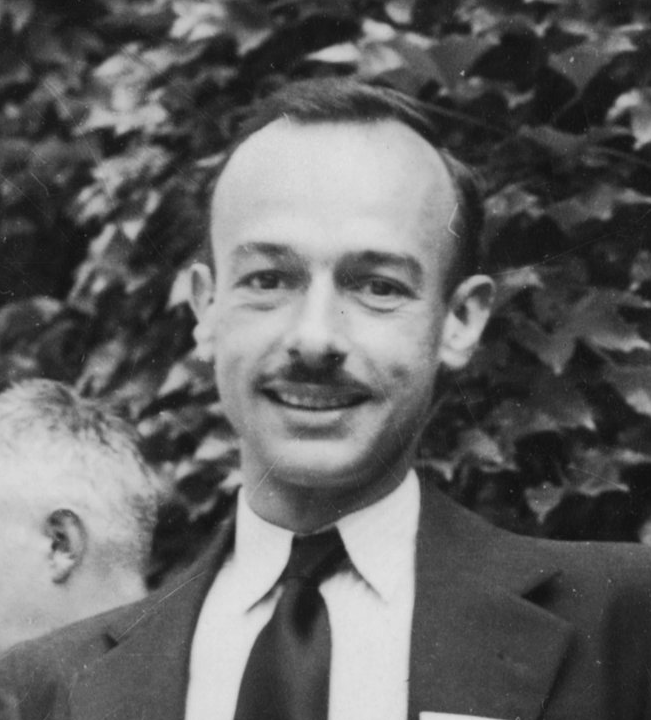
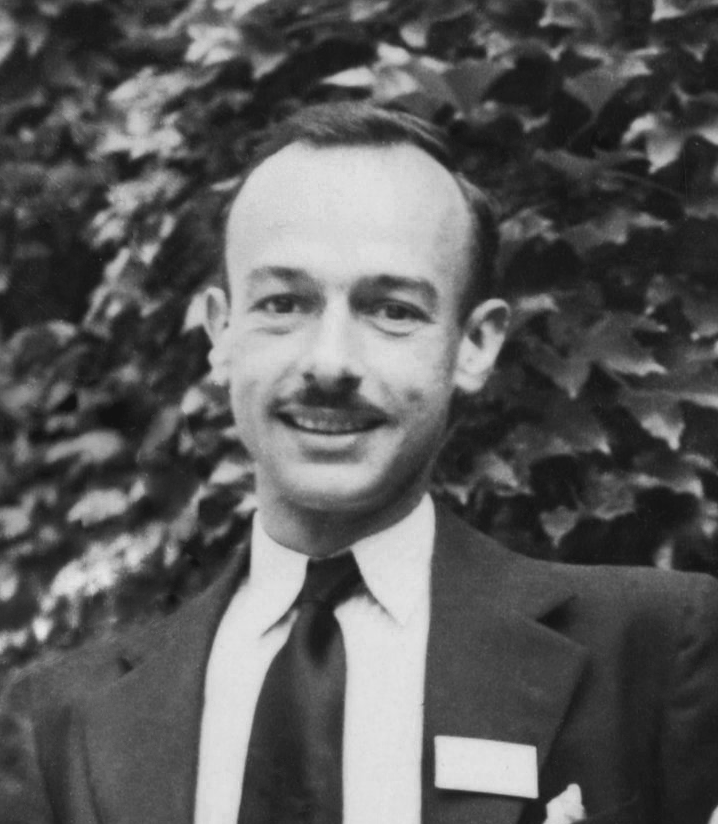
retouched photo of Quine

diff --git a/quine-van/quine-van-credit.tex b/quine-van/quine-van-credit.tex
@@ -2,7 +2,7 @@ Photo of Willard Van Orman Quine, undated, photographer
 unknown. Cropped from a larger scan of Rudolf Carnap Papers, ASP~022--07--18.
 \href{http://www.library.pitt.edu/special-collections}{Archives
 for Scientific Philosophy, Special Collections Department, University
-of Pittsburgh Library}. The Open Logic Project has obtained permission
-to use this image for inclusion in non-commercial OLP-derived
-materials. Permission from the University of Pittsburgh is required
-for any other use.
+of Pittsburgh Library}; restored and retouched by Joel Fuller. The
+Open Logic Project has obtained permission to use this image for
+inclusion in non-commercial OLP-derived materials. Permission from the
+University of Pittsburgh is required for any other use.

diff --git a/quine-van/README.md b/quine-van/README.md
@@ -3,10 +3,11 @@
 Photo of Willard Van Orman Quine, undated, photographer unknown. Cropped
 from a larger scan of Rudolf Carnap Papers, ASP 022–07–18. [Archives for
 Scientific Philosophy, Special Collections Department, University of
-Pittsburgh Library](http://www.library.pitt.edu/special-collections).
-The Open Logic Project has obtained permission to use this image for
-inclusion in non-commercial OLP-derived materials. Permission from the
-University of Pittsburgh is required for any other use.
+Pittsburgh Library](http://www.library.pitt.edu/special-collections);
+restored and retouched by Joel Fuller. The Open Logic Project has
+obtained permission to use this image for inclusion in non-commercial
+OLP-derived materials. Permission from the University of Pittsburgh is
+required for any other use.
 
 Please see the [repository README file](https://github.com/OpenLogicProject/photos/blob/master/README.md) for general information on licensing and requirements for use.
 
